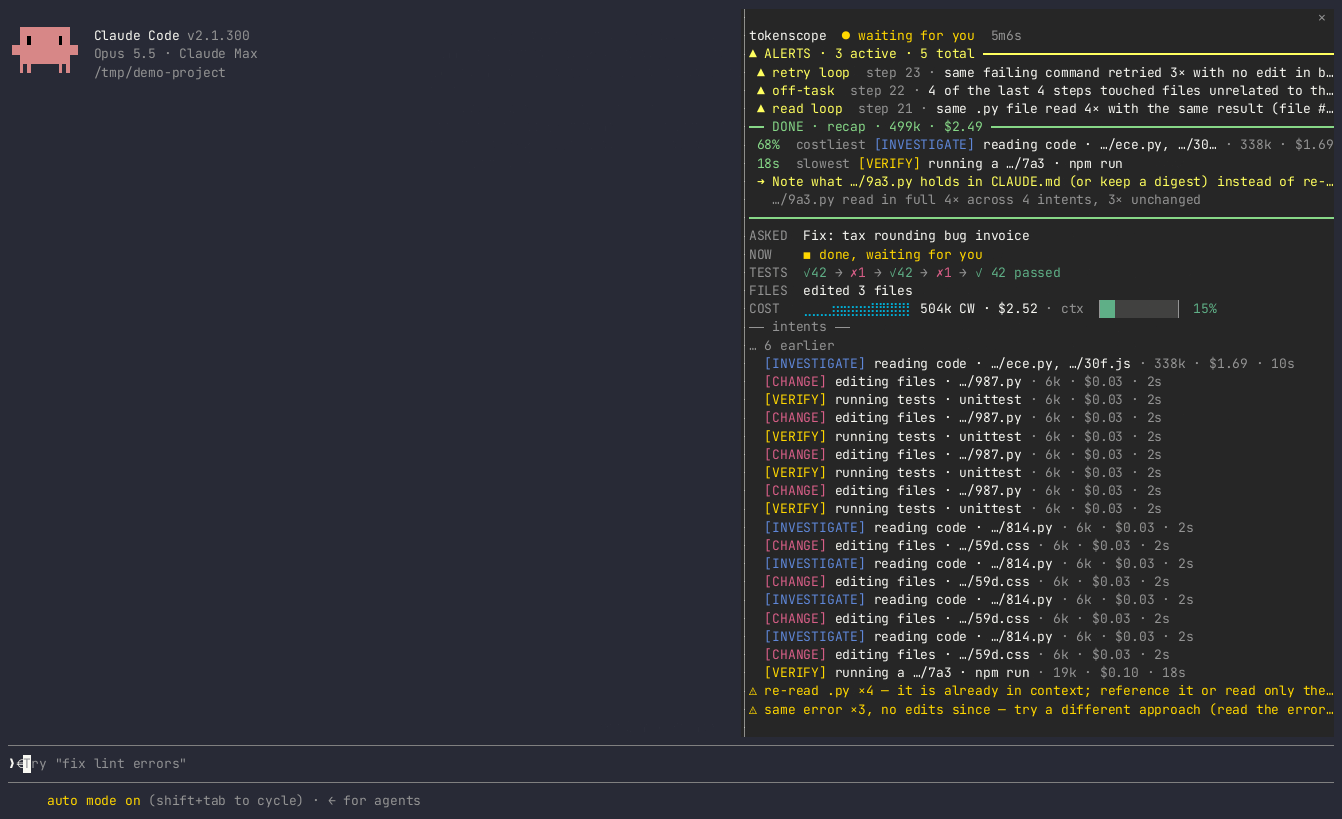
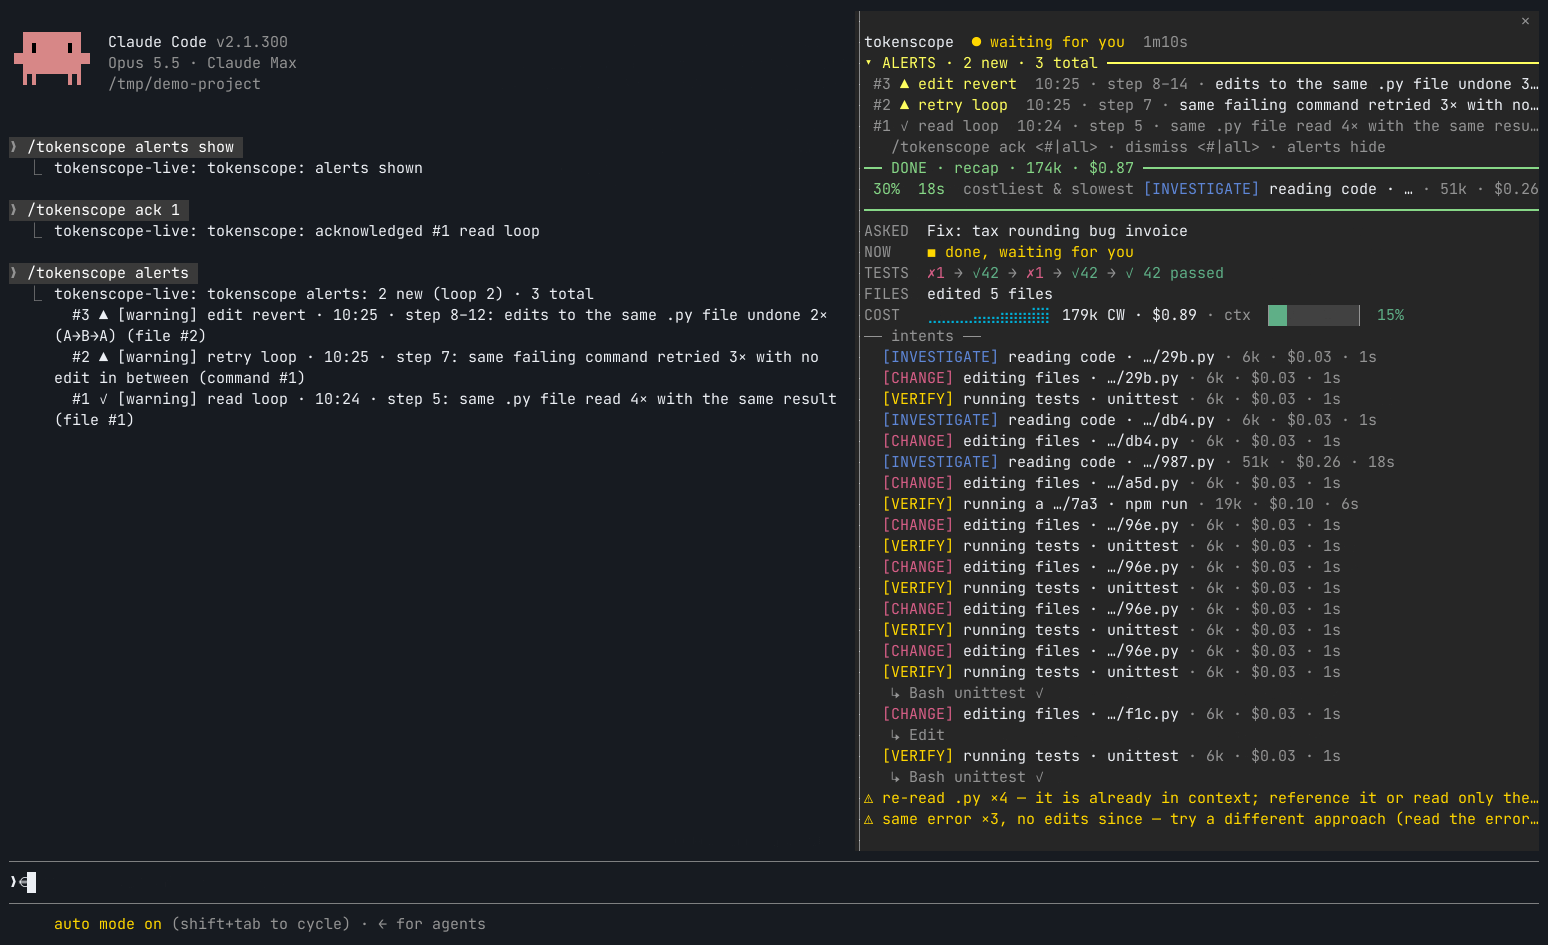
alerts v2: docs (README history / grouping / UI / API, live-spec, mod README), pane screenshot and split-view image, grouped reasons in `tokenscope alerts`, history indexed by session

diff --git a/tokenscope/live/static/alerts.js b/tokenscope/live/static/alerts.js
@@ -187,7 +187,12 @@
       box.innerHTML = "";
       if (opts.attention === false) { box.style.display = "none"; return; }
       var need = (d.sessions || []).filter(function (x) { return x.new > 0; });
-      if (!need.length) { box.appendChild(el("span", "aok-all", (d.alerts || []).length ? "✓ nothing needs attention" : "✓ no alerts")); return; }
+      if (!need.length) {
+        if ((d.alerts || []).length) box.appendChild(el("span", "aok-all", "✓ nothing needs attention"));
+        box.style.display = (d.alerts || []).length ? "" : "none";
+        return;
+      }
+      box.style.display = "";
       box.appendChild(el("span", "alab", "needs attention"));
       need.forEach(function (x) {
         var b = el("button", "asess-chip " + (x.worst || "warning"));

diff --git a/tokenscope/live/alertstore.py b/tokenscope/live/alertstore.py
@@ -46,6 +46,7 @@ class AlertStore:
         self.path, self.clock, self.max_records = path, clock, max_records
         self.recs = {}          # id -> record
         self.by_member = {}     # member alert id -> record id
+        self.by_sid = {}        # session id -> {record id}
         self.seq = {}           # sid -> last "n" given
         self.version = 0        # bumps on every change (board / SSE signatures)
         self.lock = threading.RLock()
@@ -91,6 +92,7 @@ class AlertStore:
             for m in old.get("members") or ():
                 self.by_member.pop(m, None)
         self.recs[r["id"]] = r
+        self.by_sid.setdefault(r["sid"], set()).add(r["id"])
         for m in r.get("members") or ():
             self.by_member[m] = r["id"]
         if r.get("n"):
@@ -98,6 +100,8 @@ class AlertStore:
 
     def _unindex(self, rid):
         r = self.recs.pop(rid, None)
+        if r is not None:
+            self.by_sid.get(r["sid"], set()).discard(rid)
         for m in (r or {}).get("members") or ():
             if self.by_member.get(m) == rid:
                 self.by_member.pop(m, None)
@@ -203,13 +207,16 @@ class AlertStore:
         return fresh
 
     # ------------------------------------------------------------ acknowledge / dismiss
+    def _of(self, sids):
+        """The records of `sids` (None: every session)."""
+        if sids is None:
+            return list(self.recs.values())
+        return [self.recs[i] for sid in set(sids) for i in self.by_sid.get(sid, ())]
+
     def _select(self, ids=None, sids=None, states=("new",)):
         if ids is not None:
-            ids = set(ids)
-            return [r for r in self.recs.values() if r["id"] in ids]
-        sids = set(sids) if sids else None
-        return [r for r in self.recs.values()
-                if (sids is None or r["sid"] in sids) and r.get("state", "new") in states]
+            return [self.recs[i] for i in set(ids) if i in self.recs]
+        return [r for r in self._of(sids or None) if r.get("state", "new") in states]
 
     def ack(self, ids=None, sids=None):
         """Acknowledge alerts by id, or (ids None) every new one (of `sids`, else of every session): they stay in
@@ -245,17 +252,15 @@ class AlertStore:
 
     def records(self, sids=None, states=("new", "acked")):
         """Records of `sids` (else every session) in `states`, newest first (by first seen)."""
-        sids = set(sids) if sids else None
         with self.lock:
-            out = [r for r in self.recs.values()
-                   if (sids is None or r["sid"] in sids) and r.get("state", "new") in states]
+            out = [r for r in self._of(sids or None) if r.get("state", "new") in states]
         out.sort(key=lambda r: (-(r.get("ts") or 0), r.get("n") or 0))   # one sync: in alerts.run's order
         return out
 
     def summary(self, sid):
         """{"new", "acked", "total" (not dismissed), "by_kind": {kind: new}, "worst": worst new severity}."""
         with self.lock:
-            rs = [r for r in self.recs.values() if r["sid"] == sid and r.get("state") != "dismissed"]
+            rs = [r for r in self._of([sid]) if r.get("state") != "dismissed"]
         new = [r for r in rs if r.get("state", "new") == "new"]
         by = {}
         for r in new:
@@ -265,4 +270,4 @@ class AlertStore:
 
     def sessions(self):
         with self.lock:
-            return sorted({r["sid"] for r in self.recs.values()})
+            return sorted(sid for sid, ids in self.by_sid.items() if ids)

diff --git a/tests/test_alerts.py b/tests/test_alerts.py
@@ -582,6 +582,11 @@ class TestSyntheticTraces(unittest.TestCase):
                                        "--alert", "off_task.use_prompt=true"]), 0)
         text = out.getvalue()
         self.assertIn("a1e70008: 5 alerts", text)
+        out = io.StringIO()
+        with redirect_stdout(out):
+            self.assertEqual(cli.main(["alerts", "a1e70002", "--root", FIXTURES]), 0)   # one step, two reasons
+        self.assertIn("a1e70002: 1 alert\n  [warning] cost/session_usd step 8: session spend $27.58", out.getvalue())
+        self.assertIn("\n      + [warning] cost/intent_usd: [", out.getvalue())
         self.assertIn("[critical] cost/jump step 6: step cost per call $0.84, 26.3\u00d7 the session median $0.03", text)
         out = io.StringIO()
         with redirect_stdout(out):

diff --git a/tokenscope/cli.py b/tokenscope/cli.py
@@ -665,6 +665,8 @@ def cmd_alerts(args):
         where = "" if a["step"] is None else " step %s%s" % (
             "%s-%s" % (a["first"], a["step"]) if a["first"] != a["step"] else a["step"], " (subagent)" if a["agent"] else "")
         print("  [%s] %s/%s%s: %s" % (a["severity"], a["kind"], a["rule"], where, a["message"]))
+        for m in (a.get("reasons") or [])[1:]:   # the other alerts of the same step (alerts.group)
+            print("      + [%s] %s/%s: %s" % (m["severity"], a["kind"], m["rule"], m["message"]))
     return 0
 
 

diff --git a/README.md b/README.md
@@ -60,10 +60,12 @@ the default namer is a local keyword heuristic), `--haiku-odd` (the same, only f
 long, multi-line, opening with filler, carrying paths, URLs, code or markup). Without either, such prompts are named
 from their cleaned-up text, or by a Haiku name an earlier run cached (`~/.cache/tokenscope/goal-names.json`).
 
-Alert flags: `--off-task`, `--alert KEY=VALUE`, `--alerts-config FILE`, `--no-alerts` (see [Alerts](#alerts-cost-off-task-looping)).
+Alert flags: `--off-task`, `--alert KEY=VALUE`, `--alerts-config FILE`, `--no-alerts`, `--alerts-history FILE`,
+`--no-alerts-history` (see [Alerts](#alerts-cost-off-task-looping)).
 
 API: `GET /api/board`, `GET /api/top?window=5h|24h|7d|30d&by=session|goal|turn|intent`, `GET /api/follow?s=<id>,...`,
-`GET /api/session/<id>[?since=<seq>]`, `GET /api/session/<id>/compact`, `GET /api/session/<id>/alerts`, `GET /events` (Server-Sent Events: `board`
+`GET /api/session/<id>[?since=<seq>]`, `GET /api/session/<id>/compact`, `GET /api/session/<id>/alerts`,
+`GET /api/alerts`, `POST /api/alerts/ack|dismiss|reopen`, `GET /events` (Server-Sent Events: `board`
 and `step`). See `docs/live-spec.md`.
 
 **Status heuristic.** From transcripts alone: *working* while the last event is a prompt / tool call / tool result
@@ -81,7 +83,7 @@ to `~/.cache/tokenscope-live/events.jsonl` (`$TOKENSCOPE_LIVE_EVENTS`). It never
 
 ### Alerts: cost, off-task, looping
 
-![pane: alert banner under the header](docs/media/pane-alerts.png)
+![pane: the alerts section under the header, new alerts first, the acknowledged one dim; /tokenscope alerts prints the history](docs/media/pane-alerts.png)
 
 ![canvas: alert markers on the affected steps, tooltip on hover](docs/media/canvas-alerts.png)
 
@@ -114,17 +116,57 @@ step (or step range) it is about:
 Severity: `warning`, or `critical` for a session / intent at >= 2x its threshold, a jump at >= 4x `cost.jump_ratio`,
 a repeat or retry at >= 2x its count, and edits undone >= 2x `looping.edit_revert_n` + 1 times.
 
+**Grouped per step.** Alerts of one kind that fire at the same step of one thread are one alert with several
+reasons: one expensive step that passes the session and intent thresholds and is a jump shows as one critical
+`cost jump +2` (reasons: `intent $`, `session $`), not three. The worst reason leads (then session $, intent $, jump);
+the alert takes the worst severity and the widest step range. A cost alert points at the step it fired at
+(`intent_usd`: the step that took the intent over its threshold), a loop at the step it began at.
+
 Messages are privacy-safe in every mode: no paths, file names, commands, patterns, prompt text, user names, e-mails
 or keys; files and commands are named by kind and a per-session ordinal (`same .py file read 6× (file #2)`,
 `same failing command retried 3× (command #1)`), and a last scrub removes anything path-, e-mail- or key-like.
 
-Where they show: the **pane** draws a banner under its header with the active alerts (worst first; an alert is
-active while it is within `active_steps` steps of the newest step, a subagent's while that subagent works, a session
-threshold always) and toasts each new one; the **session canvas** marks the node holding each alert's step (▲,
-coloured by severity; hover for the alerts, click for the side panel) and lists them in an ALERTS row; **board**
-cards show a chip per active alert. API: `"alerts"` in `/api/session/<id>/compact` and `/flow`
-(`[{id, kind, rule, severity, message, step, first, agent, details, active}]`), counts in `/api/board` and
-`/api/follow`, and `GET /api/session/<id>/alerts` (the list plus the config in use).
+**History and acknowledgement.** Every alert of every session is kept until you acknowledge it (it stays in the
+history, dimmed, no longer counted as needing attention) or dismiss it (it leaves the history). Acknowledged or
+dismissed alerts come back when they get worse (a new reason at the step, a higher severity). The server keeps the
+history and its states on disk, deduplicated by the alert's stable id, so it survives page reloads and server
+restarts: `~/.cache/tokenscope/alerts-history.jsonl` (`$TOKENSCOPE_CACHE_DIR`, or `$TOKENSCOPE_ALERTS_HISTORY`, or
+`--alerts-history FILE`; `--no-alerts-history` keeps it in memory only). It holds the alerts' privacy-safe messages,
+the session id, and the project / goal / step labels as the server showed them (masked unless `--no-redact`). The
+server records alerts from its poll loop, whether or not a view is open.
+
+![follow view: per-tile alert badges and the alerts column with "needs attention"](docs/media/alerts-split-view.png)
+
+Where they show:
+
+- **Web (board, follow view, session canvas)**: an **Alerts** section with the history across sessions, newest
+  first: time, severity, kind (cost / off-task / looping), rule (`+N reasons` for a grouped one, listed under
+  it), session, step and the intent at that step, message; `✓` acknowledges, `×` dismisses, `✓ ack all` and
+  `clear acked` act on all shown; `new` / `history` filters. **Needs attention** lists the sessions with alerts not
+  acknowledged, worst first, each with its counts by kind; click one to jump to its card (board) or tile (follow
+  view; a session not followed yet is pinned). Click an alert to jump to it: the board scrolls to the card, the
+  follow view to the tile and scrolls the tile to the step, the canvas centres and selects the node holding the
+  step; the `step N ↗` link opens the canvas on that step (`/s/<id>#step=N`). The section collapses to its header
+  line (`▾` / `▸`); the choice and the filter are kept per page in the browser (localStorage). On the board it sits
+  above the cards, in the follow view it is a column next to the tiles (collapsed: a narrow strip), on the canvas a
+  drawer at the bottom left. Every **board card** and **follow tile** carries a badge with its unacknowledged
+  alerts by kind (`▲ cost 1 · loop 2`) and an edge in the worst one's colour (red critical, amber warning); a
+  tile marks alerted steps with `▲`. The canvas marks the node holding each alert's step (▲, coloured by severity;
+  hover for the alerts, click for the side panel) and lists them in an ALERTS row; acknowledged ones leave the
+  nodes and stay in the drawer.
+- **Pane** (Claude Code mod): an alerts section under its header with the session's alerts, new ones first,
+  acknowledged ones dim with `✓`, each numbered `#n`; press a row or `/tokenscope ack <#|all>` to acknowledge,
+  `/tokenscope dismiss <#|all>` to dismiss, `/tokenscope alerts` prints the whole history, `/tokenscope alerts
+  hide|show` (or a press on its head) collapses it to one line, kept across sessions. Each new alert raises a toast.
+  See `mod/tokenscope-live/README.md`.
+
+API: `"alerts"` in `/api/session/<id>/compact` and `/flow` (the session's history, not dismissed:
+`[{id, n, kind, rule, severity, message, step, first, agent, reasons, details, active, live, state, ts, at,
+intent, raised}]`), counts in `/api/board` and `/api/follow` (`n`, `active`, `worst`, `by_kind`, and not
+acknowledged: `new`, `new_by_kind`, `new_worst`), `GET /api/session/<id>/alerts` (the list, its counts and the
+config in use), `GET /api/alerts[?s=<id>,...][&state=all][&limit=N]` (the history across sessions plus
+`sessions`: who needs attention), and `POST /api/alerts/ack`, `/dismiss` (`{"ids": [...]}` or `{"all": true,
+"sessions": [...]}`) and `/reopen` (`{"ids": [...]}`); POSTs want `Content-Type: application/json`.
 
 Offline: `tokenscope alerts SESSION [--json]` replays one transcript and prints its alerts;
 `python3 tools/alerts_eval.py --root DIR [--events FILE] [--off-task] [--per-trace] [--sample N]` runs the detectors

diff --git a/docs/live-spec.md b/docs/live-spec.md
@@ -109,10 +109,27 @@ off-task (opt-in, `unrelated`) and looping (`repeat_*`, `retry`, `edit_revert`).
 facts (`_facts[k]`: kind, hashed identity, hashed result, failure, polling, edit / write hashes; never emitted).
 `LiveState.alerts(s)` builds an `alerts.Context` (main-thread steps with cost, todo / declared intent and request;
 every thread's calls; subagents are segmented only when they have an alert) and runs the registered detectors,
-cached on (seq, open step). Payload: `alerts: [{"id","kind","rule","severity","message","step","first","agent",
-"details","active"}]` in compact / flow, `alerts: {"n","active","worst","by_kind","top"}` on board rows,
-`{"n","active","worst","by_kind"}` on follow tiles, and `GET /api/session/<id>/alerts`. Messages never name files,
-commands or prompts (ordinal labels such as "file #2"). `tools/alerts_eval.py` replays trees offline.
+cached on (seq, open step). `alerts.public` groups them: the alerts of one kind firing at the same step of one
+thread (a cost alert's step; a loop's first step) are one alert with "reasons" (the worst leads; a cost group's id
+is its step, so reasons joining later keep it). Every grouped alert goes into the alert history
+(`tokenscope/live/alertstore.py`, `LiveState.alert_store`): records keyed by id with a per-session ordinal "n",
+first-seen "ts", the step's time "at", its intent ("intent": {cat, label}), and "state" new / acked / dismissed;
+an acknowledged or dismissed alert comes back as new when it gets worse (a new reason, a higher severity), and a
+record a grown group now holds is merged into it. The server keeps it on disk (`--alerts-history FILE`, default
+`$TOKENSCOPE_ALERTS_HISTORY`, else `$TOKENSCOPE_CACHE_DIR` or `~/.cache/tokenscope` / `alerts-history.jsonl`; JSON
+lines `{"op": "put", "rec"}` / `{"op": "ack"|"dismiss", "ids", "ts"}` / `{"op": "drop", "ids"}`, compacted when
+mostly superseded; `--no-alerts-history`: memory only) and syncs changed sessions into it from its poll loop (at
+most once a second), so alerts are kept while nobody watches. Payload: `alerts: [{"id","n","kind","rule",
+"severity","message","step","first","agent","reasons","details","active","live","state","ts","at","intent",
+"raised"}]` (the history, not dismissed, newest first) in compact / flow; `alerts: {"n","active","worst","by_kind",
+"new","new_by_kind","new_worst","top"}` on board rows (top: active and not acknowledged), the same without top
+plus `alert_steps` ({step: worst severity not acknowledged}) on follow tiles; `GET /api/session/<id>/alerts`;
+`GET /api/alerts[?s=<ids>][&state=all][&limit=N]` (every session: "alerts" with sid / short / project / goal, and
+"sessions": per session new / acked / total / by_kind / worst, those needing attention first); `POST
+/api/alerts/ack|dismiss` (`{"ids"}` or `{"all": true, "sessions"?}`) and `/api/alerts/reopen` (`{"ids"}`), JSON
+only. Messages never name files, commands or prompts (ordinal labels such as "file #2"); the intent label is the
+step's own label as the views show it (redaction-aware). `tools/alerts_eval.py` replays trees offline (per rule:
+every reason; per kind also the grouped count).
 
 Status (per session): `working` if the last event is a user prompt / tool_result / assistant tool_use, or a hook
 says PreToolUse/UserPromptSubmit after the last Stop, and the last event is < 90 s old; `waiting` (for the user)

diff --git a/mod/tokenscope-live/README.md b/mod/tokenscope-live/README.md
@@ -70,6 +70,22 @@ COST   ⣀⣤⣶⣿ 182k CW · $0.41 · ctx ▕███░░░░░░░▏
   3 lines, only the tail cut), and `✦ <skill> · stub: <path>` when the hint names them (only when the server
   found evidence; often none), then a closing rule. The intent list gives up rows first to make
   room; the box is removed entirely as soon as the agent works again
+- **alerts** (from the server's `alerts`: the session's alert history, see the repository README
+  "Alerts") are a section right under the header, above the recap: `▾ ALERTS · 2 new · 3 total ━━━`
+  in the worst new alert's colour (bright red critical, bright yellow warning; green
+  `✓ all acknowledged` once none is new), then one row per alert, new ones first (worst, then
+  newest), acknowledged ones dim with `✓`:
+  `#3 ▲ edit revert  10:25 · step 8–14 · edits to the same .py file undone 3× …` (`▲▲` critical,
+  `+2` when the step fired more reasons, the time of its step, the step or step range,
+  `subagent step` for a subagent's), at most 5 and `+N more · /tokenscope alerts`, then the
+  commands. `#n` is the alert's number in the session, stable as new ones arrive. An alert stays
+  until it is acknowledged (it then stays dim) or dismissed (it leaves). Press a new alert's row
+  to acknowledge it, or `/tokenscope ack <#|all>`; `/tokenscope dismiss <#|all>` removes it
+  (both go to the server, so the web views agree). `/tokenscope alerts` prints the whole history
+  (with every reason) as the command's output. Collapse the section to its head line
+  (`▸ ALERTS · 2 new · loop 2 · 3 total`) by pressing it or with `/tokenscope alerts hide`
+  (`show` brings it back); the choice is kept in the mod's store, across sessions. Each new alert
+  also raises one toast
 - **warnings** are rare and come only from the server's `warnings`: one yellow line each,
   `⚠ <text> — <hint>`. A warning rule that appears after the first payload also raises one
   toast. A session without warnings shows no `⚠` anywhere
@@ -96,7 +112,8 @@ claude --plugin-dir mod/tokenscope-live
 ```
 
 Then type `/tokenscope` to toggle the pane (it works while Claude is busy, too).
-`/tokenscope expand|collapse <n|all>` and `/tokenscope view intents|phases` change the intent list.
+`/tokenscope expand|collapse <n|all>` and `/tokenscope view intents|phases` change the intent list;
+`/tokenscope alerts [show|hide]`, `/tokenscope ack <#|all>` and `/tokenscope dismiss <#|all>` the alerts.
 
 ## Environment variables
 
@@ -109,7 +126,9 @@ Then type `/tokenscope` to toggle the pane (it works while Claude is busy, too).
 ## Network
 
 Once a second the mod requests `GET {TOKENSCOPE_LIVE_URL}/api/session/{session id}/compact`,
-which by default is localhost only. Nothing is sent anywhere else. A failed request leaves the
+which by default is localhost only; acknowledging or dismissing an alert sends
+`POST /api/alerts/ack|dismiss` (`{"ids": [...]}` or `{"all": true, "sessions": [<session id>]}`)
+to the same server. Nothing is sent anywhere else. A failed request leaves the
 pane in local mode. The fields it reads (all optional) are:
 
 ```json
